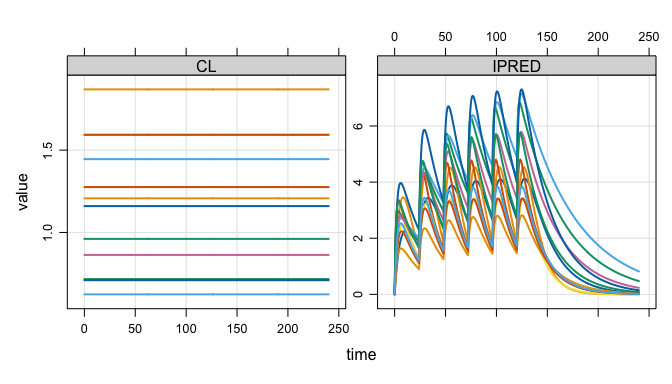
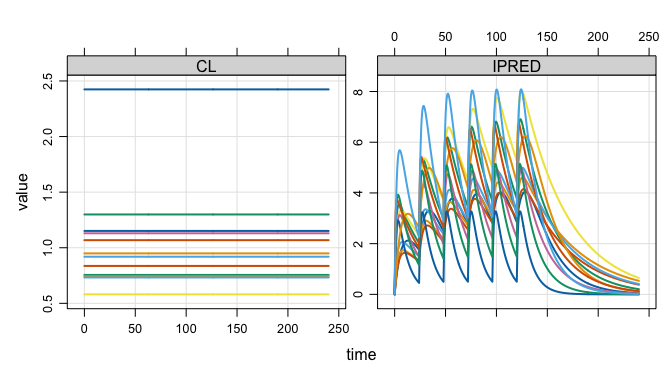
resize readme figure

diff --git a/README.md b/README.md
@@ -56,14 +56,14 @@ out
 . Files: 1 [11.9 Mb]
 . Owner: yes
 .     ID time       CL     IPRED
-. 1:   1  0.0 1.160003 0.0000000
-. 2:   1  0.0 1.160003 0.0000000
-. 3:   1  0.5 1.160003 0.2751624
-. 4:   1  1.0 1.160003 0.5239440
-. 5:   1  1.5 1.160003 0.7484348
-. 6:   1  2.0 1.160003 0.9505666
-. 7:   1  2.5 1.160003 1.1321246
-. 8:   1  3.0 1.160003 1.2947587
+. 1:   1  0.0 1.151232 0.0000000
+. 2:   1  0.0 1.151232 0.0000000
+. 3:   1  0.5 1.151232 0.2168593
+. 4:   1  1.0 1.151232 0.4165060
+. 5:   1  1.5 1.151232 0.6000356
+. 6:   1  2.0 1.151232 0.7684781
+. 7:   1  2.5 1.151232 0.9228018
+. 8:   1  3.0 1.151232 1.0639171
 ```
 
 ## Very lightweight simulation output object
@@ -74,7 +74,7 @@ disk.
 
 ``` r
 basename(out$files)
-. [1] "mrgsims-ds-204012c443e1.parquet"
+. [1] "mrgsims-ds-25c834fc1464.parquet"
 ```
 
 This means there is almost nothing inside the object itself
@@ -111,30 +111,30 @@ output object.
 plot(out, nid = 12)
 ```
 
-<img src="man/figures/README-plot_head_tail_dim-1.png" alt="" width="100%" />
+<img src="man/figures/README-plot_head_tail_dim-1.png" alt="" width="80%" style="display: block; margin: auto;" />
 
 ``` r
 head(out)
 . # A tibble: 6 × 4
 .      ID  time    CL IPRED
 .   <dbl> <dbl> <dbl> <dbl>
-. 1     1   0    1.16 0    
-. 2     1   0    1.16 0    
-. 3     1   0.5  1.16 0.275
-. 4     1   1    1.16 0.524
-. 5     1   1.5  1.16 0.748
-. 6     1   2    1.16 0.951
+. 1     1   0    1.15 0    
+. 2     1   0    1.15 0    
+. 3     1   0.5  1.15 0.217
+. 4     1   1    1.15 0.417
+. 5     1   1.5  1.15 0.600
+. 6     1   2    1.15 0.768
 
 tail(out)
 . # A tibble: 6 × 4
 .      ID  time    CL IPRED
 .   <dbl> <dbl> <dbl> <dbl>
-. 1  3000  238. 0.787 0.236
-. 2  3000  238  0.787 0.233
-. 3  3000  238. 0.787 0.229
-. 4  3000  239  0.787 0.226
-. 5  3000  240. 0.787 0.222
-. 6  3000  240  0.787 0.219
+. 1  3000  238. 0.677 0.147
+. 2  3000  238  0.677 0.144
+. 3  3000  238. 0.677 0.141
+. 4  3000  239  0.677 0.139
+. 5  3000  240. 0.677 0.136
+. 6  3000  240  0.677 0.134
 
 dim(out)
 . [1] 1446000       4
@@ -148,16 +148,16 @@ as_tibble(out)
 . # A tibble: 1,446,000 × 4
 .       ID  time    CL IPRED
 .    <dbl> <dbl> <dbl> <dbl>
-.  1     1   0    1.16 0    
-.  2     1   0    1.16 0    
-.  3     1   0.5  1.16 0.275
-.  4     1   1    1.16 0.524
-.  5     1   1.5  1.16 0.748
-.  6     1   2    1.16 0.951
-.  7     1   2.5  1.16 1.13 
-.  8     1   3    1.16 1.29 
-.  9     1   3.5  1.16 1.44 
-. 10     1   4    1.16 1.57 
+.  1     1   0    1.15 0    
+.  2     1   0    1.15 0    
+.  3     1   0.5  1.15 0.217
+.  4     1   1    1.15 0.417
+.  5     1   1.5  1.15 0.600
+.  6     1   2    1.15 0.768
+.  7     1   2.5  1.15 0.923
+.  8     1   3    1.15 1.06 
+.  9     1   3.5  1.15 1.19 
+. 10     1   4    1.15 1.31 
 . # ℹ 1,445,990 more rows
 ```
 
@@ -183,16 +183,16 @@ as_duckdb_ds(out)
 . # Database: DuckDB 1.4.3 [kyleb@Darwin 24.6.0:R 4.5.2/:memory:]
 .       ID  time    CL IPRED
 .    <dbl> <dbl> <dbl> <dbl>
-.  1     1   0    1.16 0    
-.  2     1   0    1.16 0    
-.  3     1   0.5  1.16 0.275
-.  4     1   1    1.16 0.524
-.  5     1   1.5  1.16 0.748
-.  6     1   2    1.16 0.951
-.  7     1   2.5  1.16 1.13 
-.  8     1   3    1.16 1.29 
-.  9     1   3.5  1.16 1.44 
-. 10     1   4    1.16 1.57 
+.  1     1   0    1.15 0    
+.  2     1   0    1.15 0    
+.  3     1   0.5  1.15 0.217
+.  4     1   1    1.15 0.417
+.  5     1   1.5  1.15 0.600
+.  6     1   2    1.15 0.768
+.  7     1   2.5  1.15 0.923
+.  8     1   3    1.15 1.06 
+.  9     1   3.5  1.15 1.19 
+. 10     1   4    1.15 1.31 
 . # ℹ more rows
 ```
 
@@ -226,15 +226,15 @@ collect(dd)
 .     time  Mean     n
 .    <dbl> <dbl> <int>
 .  1   0    0     6000
-.  2   0.5  1.11  3000
+.  2   0.5  1.10  3000
 .  3   1    1.80  3000
 .  4   1.5  2.25  3000
-.  5   2    2.57  3000
+.  5   2    2.56  3000
 .  6   2.5  2.78  3000
 .  7   3    2.92  3000
-.  8   3.5  3.02  3000
-.  9   4    3.08  3000
-. 10   4.5  3.11  3000
+.  8   3.5  3.01  3000
+.  9   4    3.07  3000
+. 10   4.5  3.10  3000
 . # ℹ 471 more rows
 ```
 
@@ -257,15 +257,15 @@ out2
 . Dim  : 14.5M 4
 . Files: 10 [119.1 Mb]
 . Owner: yes
-.     ID time        CL     IPRED
-. 1:   1  0.0 0.9911192 0.0000000
-. 2:   1  0.0 0.9911192 0.0000000
-. 3:   1  0.5 0.9911192 0.7117717
-. 4:   1  1.0 0.9911192 1.3191935
-. 5:   1  1.5 0.9911192 1.8350522
-. 6:   1  2.0 0.9911192 2.2706284
-. 7:   1  2.5 0.9911192 2.6358717
-. 8:   1  3.0 0.9911192 2.9395566
+.     ID time       CL     IPRED
+. 1:   1  0.0 2.157381 0.0000000
+. 2:   1  0.0 2.157381 0.0000000
+. 3:   1  0.5 2.157381 0.9637376
+. 4:   1  1.0 2.157381 1.6536490
+. 5:   1  1.5 2.157381 2.1375072
+. 6:   1  2.0 2.157381 2.4666787
+. 7:   1  2.5 2.157381 2.6800793
+. 8:   1  3.0 2.157381 2.8071776
 ```
 
 ## Files on disk are automagically managed
@@ -275,11 +275,11 @@ All `arrow` files are stored in the `tempdir()` in parquet format
 ``` r
 list_temp()
 . 11 files [131.1 Mb]
-. - mrgsims-ds-204012c443e1.parquet
-. - mrgsims-ds-207e238740b.parquet
+. - mrgsims-ds-25c834fc1464.parquet
+. - mrgsims-ds-2626386cd288.parquet
 .    ...
-. - mrgsims-ds-2082545c2c43.parquet
-. - mrgsims-ds-20826f5e0df9.parquet
+. - mrgsims-ds-262a745ee30f.parquet
+. - mrgsims-ds-262a79d7c98.parquet
 ```
 
 This directory is eventually removed when the R session ends. Tools are
@@ -291,11 +291,11 @@ retain_temp(out2)
 
 list_temp()
 . 10 files [119.1 Mb]
-. - mrgsims-ds-207e238740b.parquet
-. - mrgsims-ds-207e484a7f50.parquet
+. - mrgsims-ds-2626386cd288.parquet
+. - mrgsims-ds-26267071fba8.parquet
 .    ...
-. - mrgsims-ds-2082545c2c43.parquet
-. - mrgsims-ds-20826f5e0df9.parquet
+. - mrgsims-ds-262a745ee30f.parquet
+. - mrgsims-ds-262a79d7c98.parquet
 ```
 
 We also put a finalizer on each object so that, when it goes out of
@@ -337,8 +337,8 @@ cleaned up.
 ``` r
 gc()
 .            used  (Mb) gc trigger  (Mb) limit (Mb) max used  (Mb)
-. Ncells  1946632 104.0    3637454 194.3         NA  3217241 171.9
-. Vcells 15236476 116.3   29084540 221.9      16384 27039546 206.3
+. Ncells  1946639 104.0    3637280 194.3         NA  3202177 171.1
+. Vcells 15236543 116.3   29084680 221.9      16384 27039663 206.3
 
 list_temp()
 . 2 files [23.8 Mb]
